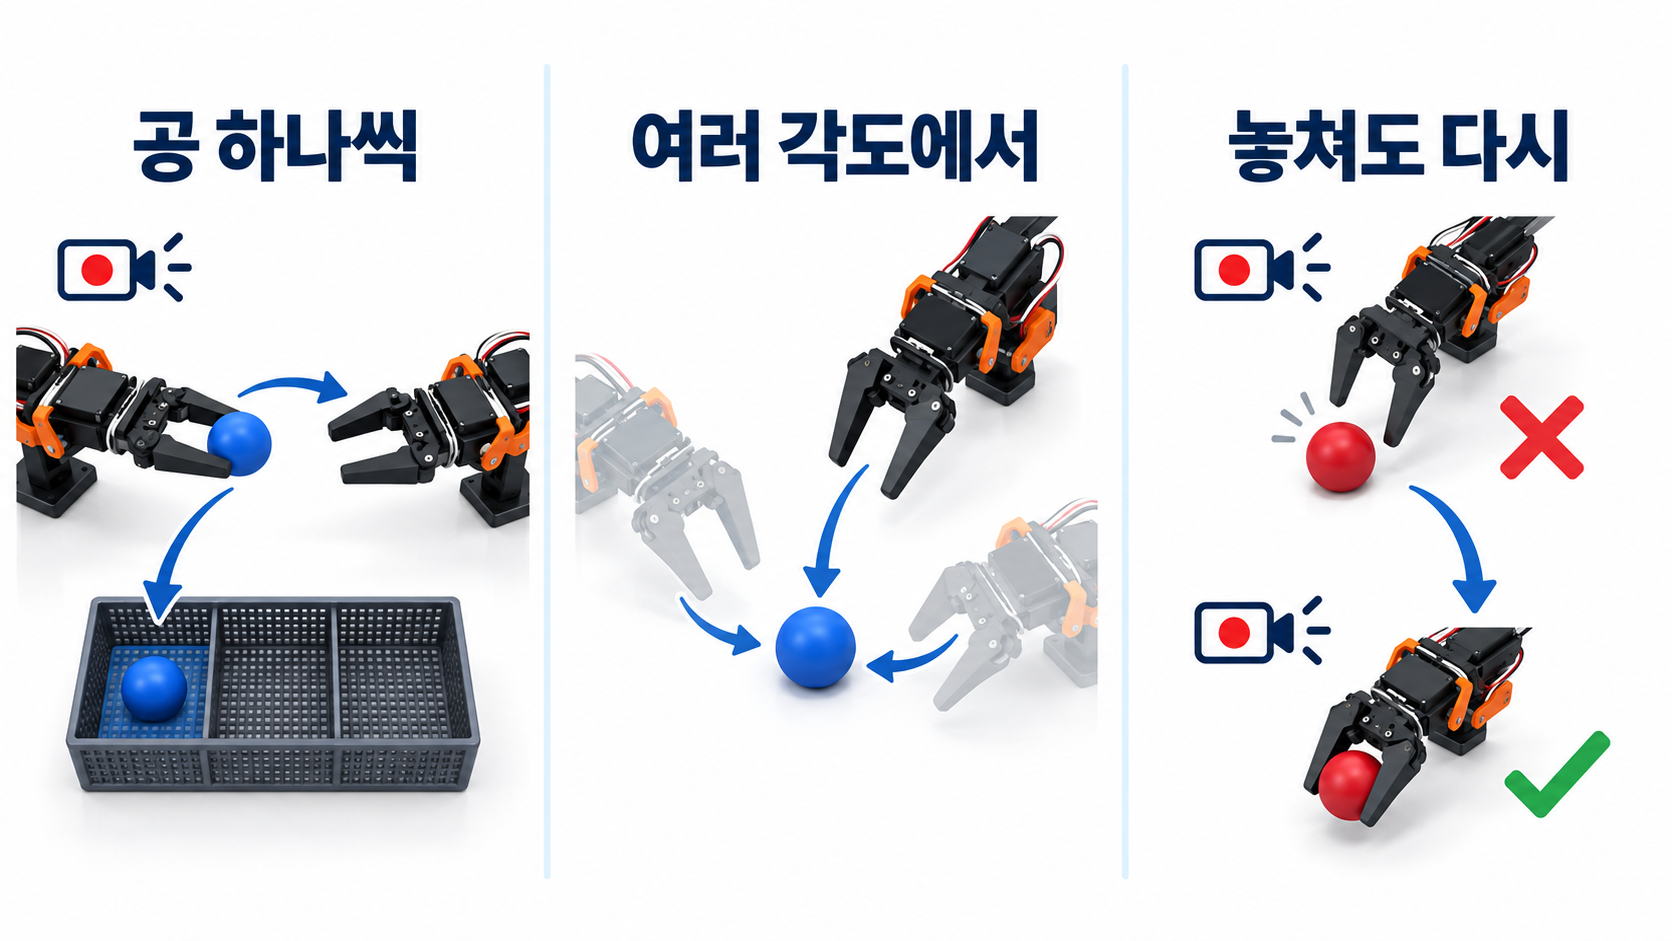
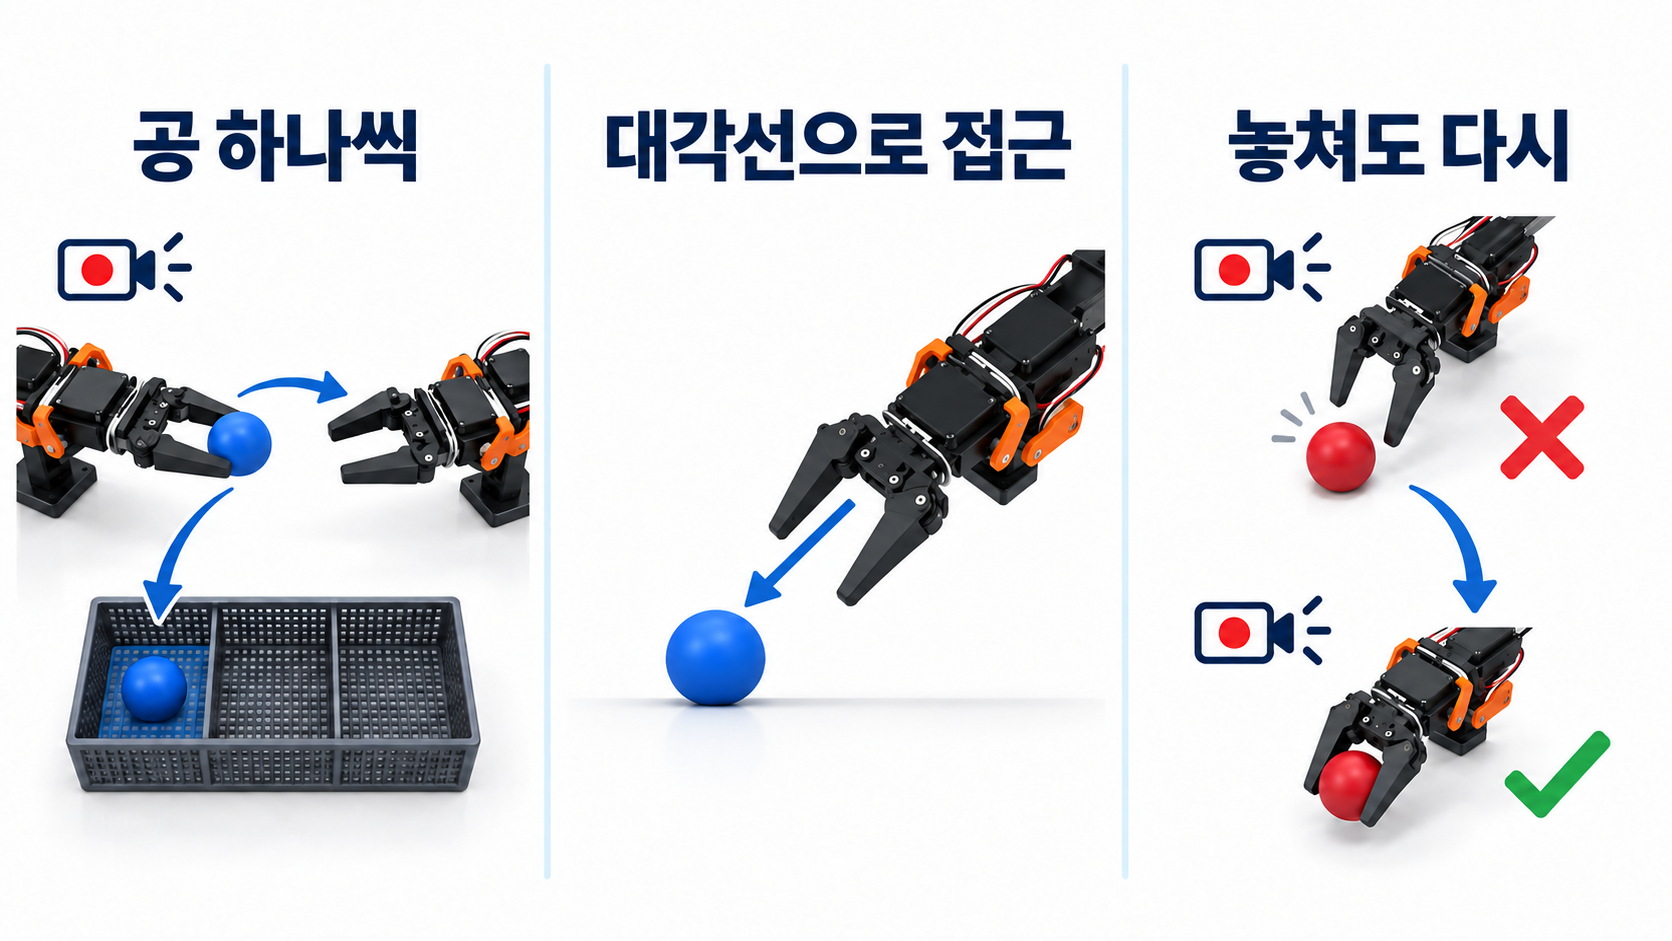
Correct hackathon illustration to show diagonal approach

diff --git a/projects/physical-ai-hackathon.html b/projects/physical-ai-hackathon.html
@@ -56,8 +56,8 @@
         <section class="case-section" id="ko-2차-시도-공-하나씩-학습하고-실패-복구도-기록하기">
           <div class="case-heading"><h2>2차 시도: 공 하나씩 학습하고 실패 복구도 기록하기</h2></div>
           <p>시연을 <strong>공 하나를 집어 전달하고, 같은 색 수납함에 넣는 동작</strong>으로 나눴습니다. 긴 순서를 한꺼번에 익히기보다 짧은 동작을 반복해서 학습하도록 바꿨습니다.</p>
-<p>공 위치가 달라져도 대응할 수 있도록 정면뿐 아니라 대각선으로 접근하는 시연도 기록했습니다. 일부러 공을 놓친 뒤 다시 집는 동작을 넣어, <strong>실패한 상태에서 작업을 이어가는 과정</strong>도 학습 데이터에 포함했습니다.</p>
-<figure class="feature-media hackathon-act-media"><img src="../assets/images/physical-ai-second-attempt.png" alt="공 하나의 집기·전달·분류를 따로 기록하고, 여러 각도로 접근하며, 놓친 공을 다시 집는 복구 동작까지 시연에 포함한 2차 학습 방법" loading="lazy"></figure>
+<p>공에 수직으로 내려가는 대신 대각선으로 접근해 집는 동작을 기록했습니다. 일부러 공을 놓친 뒤 다시 집는 동작을 넣어, <strong>실패한 상태에서 작업을 이어가는 과정</strong>도 학습 데이터에 포함했습니다.</p>
+<figure class="feature-media hackathon-act-media"><img src="../assets/images/physical-ai-second-attempt.png" alt="공 하나의 집기·전달·분류를 따로 기록하고, 대각선으로 접근하며, 놓친 공을 다시 집는 복구 동작까지 시연에 포함한 2차 학습 방법" loading="lazy"></figure>
         </section>
 
         <section class="case-section" id="ko-심사-결과">
@@ -119,8 +119,8 @@
         <section class="case-section" id="en-second-attempt-learn-one-ball-at-a-time-and-record-recovery">
           <div class="case-heading"><h2>Second attempt: learn one ball at a time and record recovery</h2></div>
           <p>We split demonstrations into <strong>picking up one ball, passing it between arms, and placing it in the matching bin</strong>. This let the model learn repeated short actions instead of one long sequence.</p>
-<p>We recorded diagonal as well as frontal approaches to cover changes in ball position. We also deliberately missed a ball and picked it up again, adding <strong>how to continue after a failed grasp</strong> to the training data.</p>
-<figure class="feature-media hackathon-act-media"><img src="../assets/images/physical-ai-second-attempt.png" alt="Three changes to training demonstrations: record one ball at a time, approach from varied angles, and include a missed grasp followed by another attempt" loading="lazy"></figure>
+<p>We recorded the gripper approaching the ball diagonally rather than descending vertically. We also deliberately missed a ball and picked it up again, adding <strong>how to continue after a failed grasp</strong> to the training data.</p>
+<figure class="feature-media hackathon-act-media"><img src="../assets/images/physical-ai-second-attempt.png" alt="Three changes to training demonstrations: record one ball at a time, approach diagonally, and include a missed grasp followed by another attempt" loading="lazy"></figure>
         </section>
 
         <section class="case-section" id="en-judging-result">

diff --git a/project-data/physical-ai-hackathon.md b/project-data/physical-ai-hackathon.md
@@ -56,9 +56,9 @@ demo:
 
 시연을 **공 하나를 집어 전달하고, 같은 색 수납함에 넣는 동작**으로 나눴습니다. 긴 순서를 한꺼번에 익히기보다 짧은 동작을 반복해서 학습하도록 바꿨습니다.
 
-공 위치가 달라져도 대응할 수 있도록 정면뿐 아니라 대각선으로 접근하는 시연도 기록했습니다. 일부러 공을 놓친 뒤 다시 집는 동작을 넣어, **실패한 상태에서 작업을 이어가는 과정**도 학습 데이터에 포함했습니다.
+공에 수직으로 내려가는 대신 대각선으로 접근해 집는 동작을 기록했습니다. 일부러 공을 놓친 뒤 다시 집는 동작을 넣어, **실패한 상태에서 작업을 이어가는 과정**도 학습 데이터에 포함했습니다.
 
-<figure class="feature-media hackathon-act-media"><img src="../assets/images/physical-ai-second-attempt.png" alt="공 하나의 집기·전달·분류를 따로 기록하고, 여러 각도로 접근하며, 놓친 공을 다시 집는 복구 동작까지 시연에 포함한 2차 학습 방법" loading="lazy"></figure>
+<figure class="feature-media hackathon-act-media"><img src="../assets/images/physical-ai-second-attempt.png" alt="공 하나의 집기·전달·분류를 따로 기록하고, 대각선으로 접근하며, 놓친 공을 다시 집는 복구 동작까지 시연에 포함한 2차 학습 방법" loading="lazy"></figure>
 
 ## 심사 결과
 

diff --git a/project-data/en/physical-ai-hackathon.md b/project-data/en/physical-ai-hackathon.md
@@ -38,9 +38,9 @@ We recorded about 200 episodes, each covering the full sequence of picking, tran
 
 We split demonstrations into **picking up one ball, passing it between arms, and placing it in the matching bin**. This let the model learn repeated short actions instead of one long sequence.
 
-We recorded diagonal as well as frontal approaches to cover changes in ball position. We also deliberately missed a ball and picked it up again, adding **how to continue after a failed grasp** to the training data.
+We recorded the gripper approaching the ball diagonally rather than descending vertically. We also deliberately missed a ball and picked it up again, adding **how to continue after a failed grasp** to the training data.
 
-<figure class="feature-media hackathon-act-media"><img src="../assets/images/physical-ai-second-attempt.png" alt="Three changes to training demonstrations: record one ball at a time, approach from varied angles, and include a missed grasp followed by another attempt" loading="lazy"></figure>
+<figure class="feature-media hackathon-act-media"><img src="../assets/images/physical-ai-second-attempt.png" alt="Three changes to training demonstrations: record one ball at a time, approach diagonally, and include a missed grasp followed by another attempt" loading="lazy"></figure>
 
 ## Judging result
 
